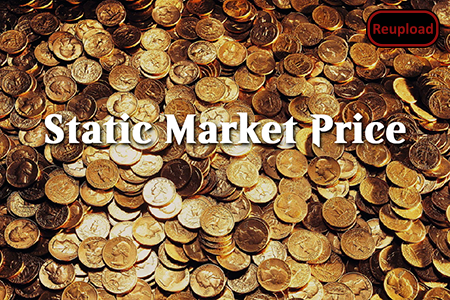
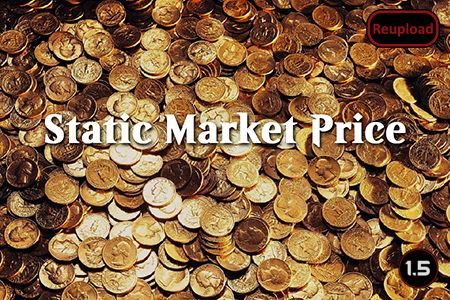
Mod updated for 1.5 and passed autotests

Changed region(s): [[0.8711, 0.81, 0.9956, 0.96]]

diff --git a/Source/StaticMarketPrice/StaticMarketPrice_GetPriceTooltip.cs b/Source/StaticMarketPrice/StaticMarketPrice_GetPriceTooltip.cs
@@ -6,7 +6,7 @@ namespace StaticMarketPrice.HarmonyPatches;
 [HarmonyPatch(typeof(Tradeable), "GetPriceTooltip")]
 public static class StaticMarketPrice_GetPriceTooltip
 {
-    public static bool Prefix(ref string __result, ref Tradeable __instance, TradeAction action)
+    public static bool Prefix(ref string __result, ref Tradeable __instance)
     {
         if (__instance.IsCurrency || __instance.IsFavor)
         {

diff --git a/Source/StaticMarketPrice/Initialization.cs b/Source/StaticMarketPrice/Initialization.cs
@@ -10,10 +10,9 @@ public static class Initialization
 {
     static Initialization()
     {
-        var harmony = new Harmony("Harmony_StaticMarketPrice");
         try
         {
-            harmony.PatchAll(Assembly.GetExecutingAssembly());
+            new Harmony("Harmony_StaticMarketPrice").PatchAll(Assembly.GetExecutingAssembly());
         }
         catch (Exception e)
         {

diff --git a/README.md b/README.md
@@ -34,11 +34,13 @@ Safely Removable: Yes
 
 -  See if the the error persists if you just have this mod and its requirements active.
 -  If not, try adding your other mods until it happens again.
--  Post your error-log using https://steamcommunity.com/workshop/filedetails/?id=818773962]HugsLib and command Ctrl+F12
+-  Post your error-log using https://steamcommunity.com/workshop/filedetails/?id=818773962]HugsLib or the standalone https://steamcommunity.com/sharedfiles/filedetails/?id=2873415404]Uploader and command Ctrl+F12
 -  For best support, please use the Discord-channel for error-reporting.
 -  Do not report errors by making a discussion-thread, I get no notification of that.
 -  If you have the solution for a problem, please post it to the GitHub repository.
+-  Use https://github.com/RimSort/RimSort/releases/latest]RimSort to sort your mods
 
 
 
-https://steamcommunity.com/sharedfiles/filedetails/changelog/2673314921]Last updated 2023-04-22
+https://steamcommunity.com/sharedfiles/filedetails/changelog/2673314921]![Image](https://img.shields.io/github/v/release/emipa606/StaticMarketPrice?label=latest%20version&style=plastic&color=9f1111&labelColor=black)
+
